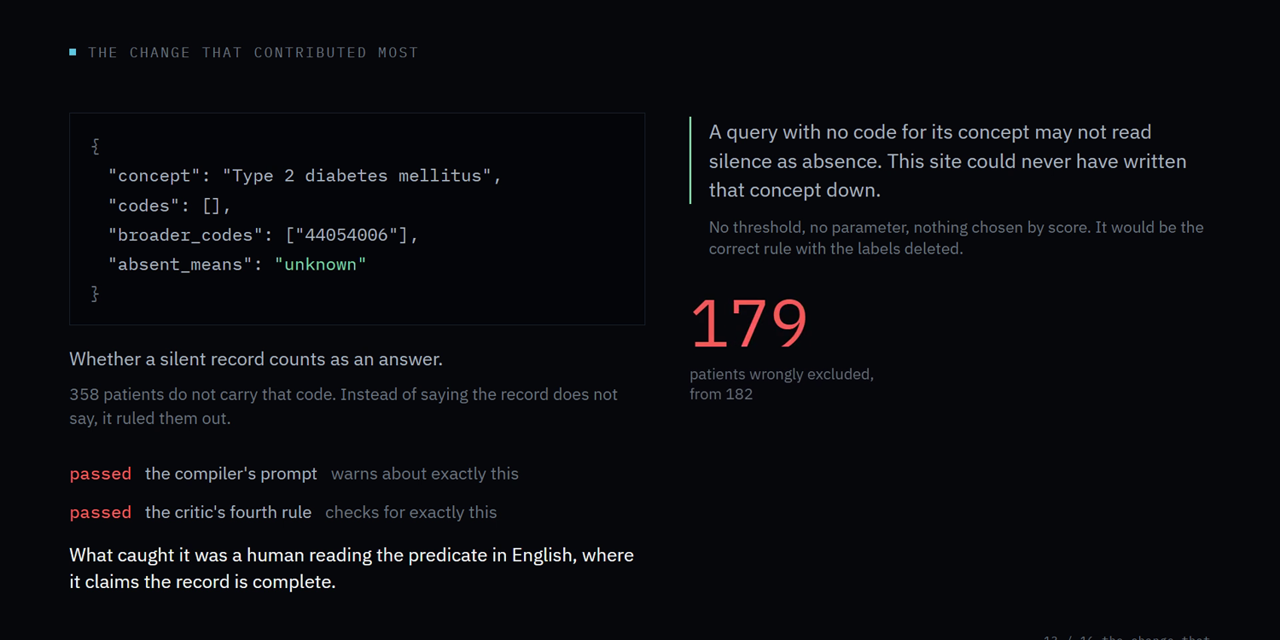
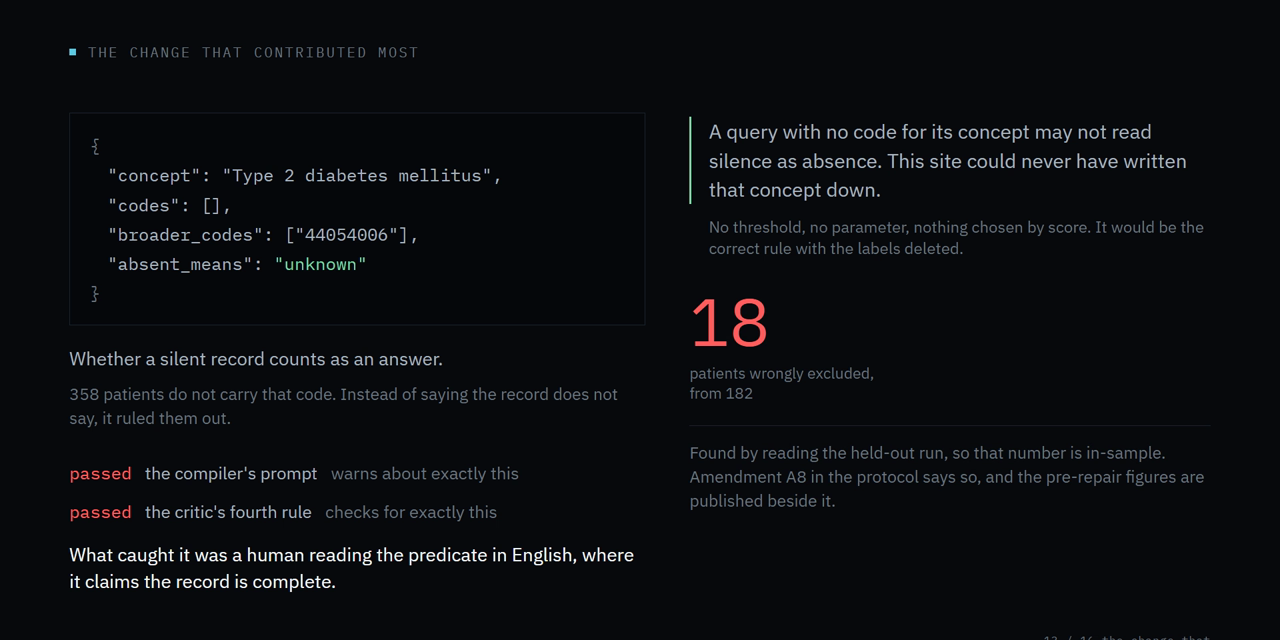
Recut the stills from the film

Changed region(s): [[0.5312, 0.6875, 0.9375, 0.8125], [0.5312, 0.4688, 0.6875, 0.625], [0.2812, 0.8438, 0.3125, 0.875]]

diff --git a/README.md b/README.md
@@ -66,8 +66,8 @@ all until a named human has signed every predicate.
 | Agent instructions, verbatim | [`src/trialsieve/agents/`](src/trialsieve/agents/) as constants, and the first event of every trajectory. Mapped in [docs/AGENT_DESIGN.md](docs/AGENT_DESIGN.md). |
 | Improvement changelog | [docs/IMPROVEMENT_CHANGELOG.md](docs/IMPROVEMENT_CHANGELOG.md), 78 entries. Its opening table is the whole arc. |
 | Baseline comparison | [docs/SCORECARD.md](docs/SCORECARD.md), one page, four columns. |
-| Reproduction guide | [REPRODUCE.md](REPRODUCE.md). One command from a clean clone, 152.3s captured, no key, no network. |
-| The video | submitted as a link on the entry form, 4:57 (297.4s of a 300s limit). It is not a file in this repository: it is one of the four deliverables rather than part of the solution, and nothing here needs it to run. |
+| Reproduction guide | [REPRODUCE.md](REPRODUCE.md). One command from a clean clone, 155.0s captured, no key, no network. |
+| The video | submitted as a link on the entry form, 4:57 (297.0s of a 300s limit). It is not a file in this repository: it is one of the four deliverables rather than part of the solution, and nothing here needs it to run. |
 | Agent trajectories | [runs/tierA/trajectories/index.md](runs/tierA/trajectories/index.md), every model call. Five named exemplars first, then the rest with the failures at the top. The four other arms are indexed the same way beside it. |
 | Everything else, and the ground rules | [SUBMISSION.md](SUBMISSION.md), including what existed before this started. |
 
@@ -94,7 +94,7 @@ small because the baseline is the arm that costs money.
 | cells it answers at all | 68.00% | 21.75% |
 
 <div align="center">
-<img src="docs/img/comparison.png" alt="The same four hundred scored cells, three arms side by side. Regular expressions answer 7.5% and are wrong on 0.0%. TrialSieve answers 21.8% and is wrong on 1.0%, four silent errors. One model call per cell answers 68.0% and is wrong on 43.8%, a hundred and seventy-five silent errors." width="880">
+<img src="docs/img/comparison.png" alt="The same four hundred scored cells, four arms side by side. Regular expressions answer 7.5% and are wrong on 0.0%. TrialSieve answers 21.8% and is wrong on 1.0%, four silent errors. One model call per cell answers 68.0% and is wrong on 43.8%, a hundred and seventy-five silent errors. Treating a silent record as a FAILS answers 100% and is wrong on 93.8%, three hundred and seventy-five." width="880">
 </div>
 
 | cells resolved correctly per screen, the registered co-primary | **3.23** | 2.77 |
@@ -148,7 +148,7 @@ the test was never done, it answers anyway, and the answer reads exactly like th
 that are right.
 
 <div align="center">
-<img src="docs/img/gate.png" alt="Captured stdout of the worklist command. It prints REFUSED, states that nine compiled criteria have no human sign-off, and exits 3. Beside it, forcing it with the allow-unsigned flag writes the document with NOT FOR USE stamped on it." width="880">
+<img src="docs/img/gate.png" alt="Captured stdout of the worklist command. It prints REFUSED, states that one compiled criterion was reviewed and REJECTED so no worklist can be produced until it is recompiled, names it as NCT06983054-INC-01, and exits 3. Beside it, forcing it with the allow-unsigned flag writes the document with NOT FOR USE stamped on it." width="880">
 </div>
 
 ## Where everything is
@@ -461,6 +461,10 @@ of the 424 wrong FAILS in the whole evaluation. The control that was supposed to
   coverage. Entry 30 of the changelog puts the gain and the cost in the same table, before
 and after, and [docs/SCORECARD.md](docs/SCORECARD.md) puts the coverage cost
 next to the baseline's.
+
+<div align="center">
+<img src="docs/img/biggest.png" alt="One compiled query with an empty codes list, concept Type 2 diabetes mellitus, broader_codes 44054006, absent_means unknown. 358 patients do not carry that code, and before the repair the query ruled them out instead of saying the record does not say. The compiler's prompt warns about exactly this and the critic's fourth rule checks for it: both passed it. What caught it was a human reading the predicate in English. Patients wrongly excluded fall from 182 to 18, found by reading the held-out run, so the figure is in-sample and Amendment A8 says so." width="880">
+</div>
 - **Every other closed-world decision is still the model's, and the sensitivity
   arm is how you check it.** `--absent-means-override unknown` discards all of
   them at once. It used to remove 358 silent errors, taking 469 down to 111. It
@@ -532,6 +536,10 @@ question would be the overclaim this repository keeps catching itself in. It end
 trial has 15 criteria, the document answers 3, and the other 12 are still the
 coordinator's on every patient it hands back, with the six the compiler refused
 listed and its reason beside each one.
+
+<div align="center">
+<img src="docs/img/worklist.png" alt="The worklist as the film shows it: a NOT FOR USE banner over a panel of 385 patients and 1,155 cells, 187 ruled out with evidence, 190 left to review, 8 meeting every checkable criterion. Beside it, what is left to ask: 188 patients need one criterion asked, 2 need two, so a nurse asks two things instead of reading 1,155 cells." width="880">
+</div>
 
 Three files, same run, same provenance header:
 [docs/sample_worklist.md](docs/sample_worklist.md) to read,

diff --git a/REPRODUCE.md b/REPRODUCE.md
@@ -188,7 +188,7 @@ make, because it points at the command that is not the one you are waiting for.
 
 The last lines of a real run, copied out of
 [`docs/reproduce_transcript.txt`](docs/reproduce_transcript.txt), which is
-captured stdout rather than a sample typed into this file. The whole 2,004-line
+captured stdout rather than a sample typed into this file. The whole 2,006-line
 transcript is in there, so there is more than a tail to compare against. Run the
 command yourself and read your own last lines beside these:
 
@@ -197,7 +197,7 @@ command yourself and read your own last lines beside these:
     ========================================================================
     IDENTICAL: every published number reproduced on this machine, and results/RESULTS.md is byte-identical to the published copy.
 
-    OK  (reproduce in 152.3s)
+    OK  (reproduce in 155.0s)
 
     exit 0
 
@@ -279,7 +279,7 @@ key. Every recorded call replays from `runs/tierA/cassettes/`, and replay never
 falls through to a live call. The reading you can check rather than take on trust
 is the last line of
 [`docs/reproduce_transcript.txt`](docs/reproduce_transcript.txt), which is
-captured stdout from a clean tree: **152.3 seconds** on a Windows laptop with a
+captured stdout from a clean tree: **155.0 seconds** on a Windows laptop with a
 14-core CPU. Repeated runs landed between 143 and 188 seconds, and the spread is
 the honest answer to "how long does it take": a cold clone pays to read 58 MB off
 disk, and a machine that is busy pays twice. The 188 is a reading from an
